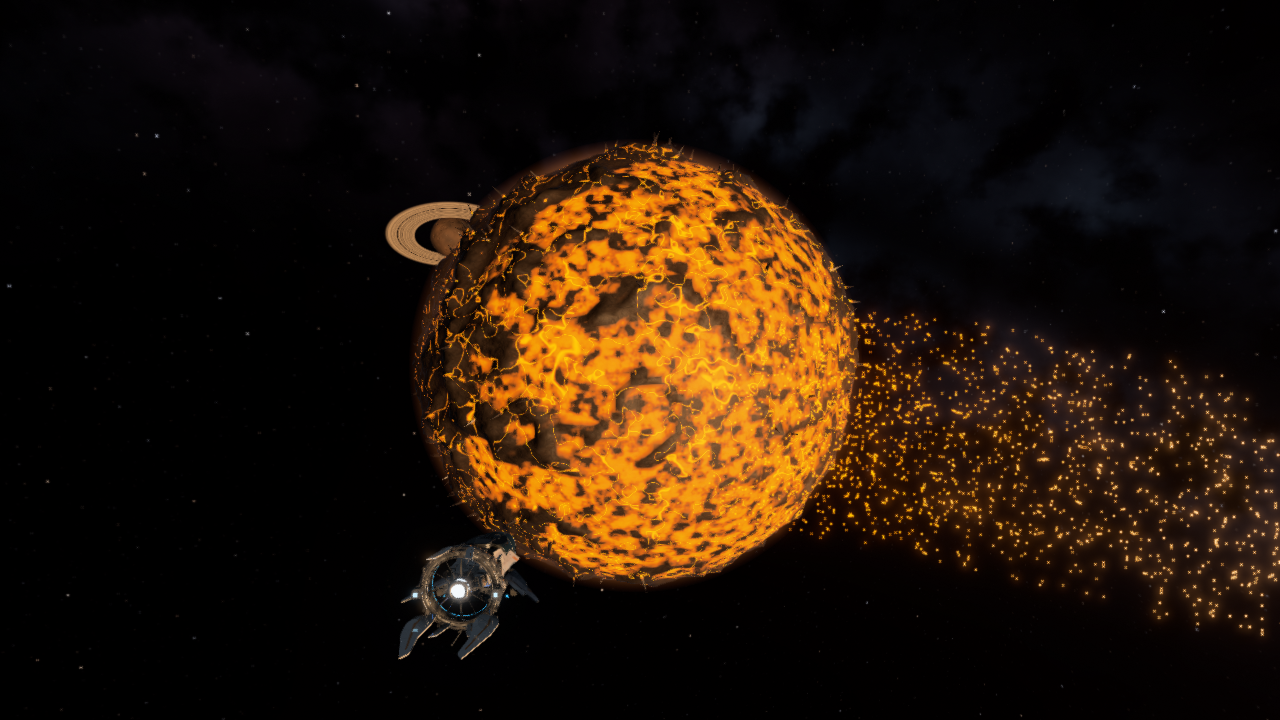
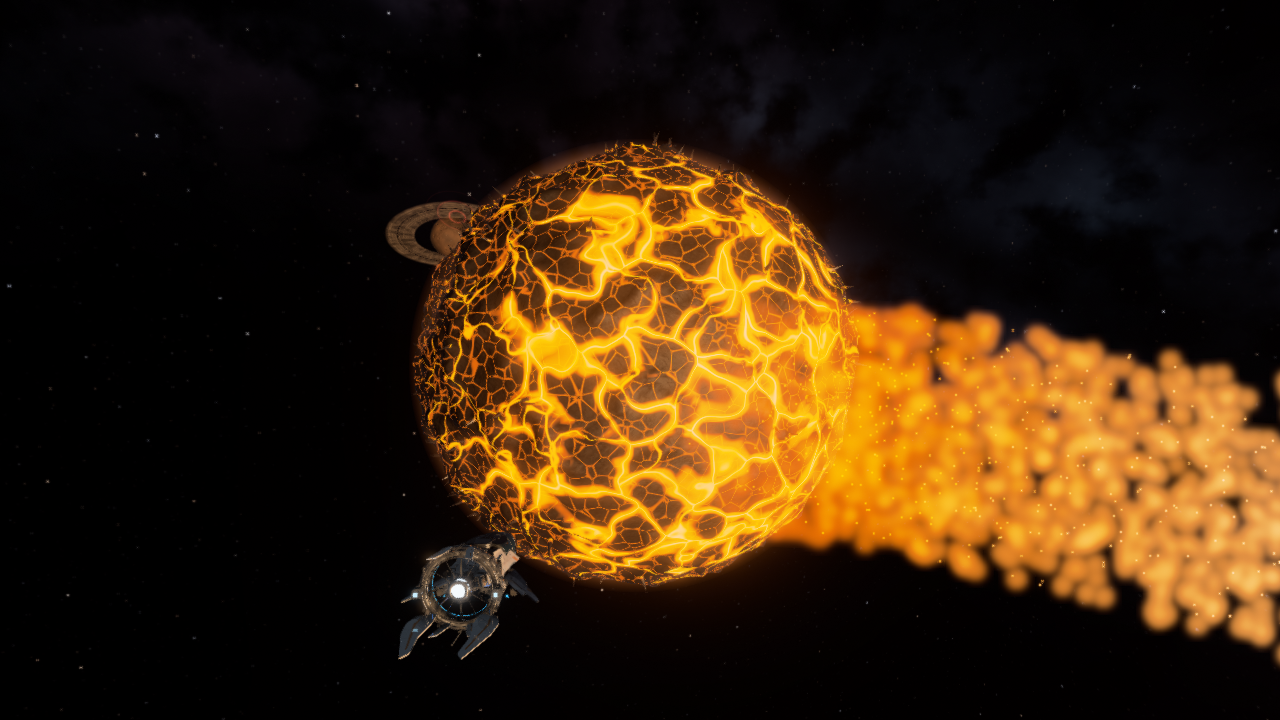
Actualizar el README, la explicacion y las capturas con el rediseno

Changed region(s): [[0.2812, 0.1833, 1.0, 0.9167]]

diff --git a/README.md b/README.md
@@ -4,25 +4,28 @@ Gráficas por Computadora · Proyecto 3 · Lázaro Díaz, 24713
 
 Un sistema solar explorable en nave, dibujado con un renderer por software
 propio en CPU. **Ocaso**, una supergigante roja, agoniza y late como un
-corazón. Durante quince minutos se puede volar entre sus cinco planetas;
-después su latido se acelera, colapsa en una supernova fallida y en su lugar
-queda **Gargantúa**, un agujero negro con su disco de acreción, que curva la
-luz de todo el cielo. Luego el ciclo vuelve a empezar.
+corazón, y se puede volar entre sus cinco planetas todo el tiempo que se
+quiera. Con **J** empieza el final: el latido se acelera, la estrella suelta
+una capa de gas, colapsa en una supernova fallida y en su lugar nace
+**Gargantúa**, un agujero negro con su disco de acreción que curva la luz de
+todo el cielo. Otra J la hace renacer.
 
-![Gargantua en la revision visual](media/24_el_ojo.png)
+![Gargantúa: el ojo se abre](media/24_el_ojo.png)
 
 | | |
 | --- | --- |
-| ![El sistema](media/22_agonia.png) | ![El chorro de brasas de Pira](media/14_chorro.png) |
-| ![Monolitos de Réquiem](media/10_monolito.png) | ![Bosque de hongos de Jardín de noche](media/11_hongos.png) |
-| ![Superficie de Jardín](media/23_jardin_biopunk.png) | ![Jardín durante Gargantúa](media/20_jardin_noche_eterna.png) |
+| ![Agonía: la estrella late y Pira se le deshace encima](media/22_agonia.png) | ![Estertor: la estrella suelta su capa de gas](media/25_estertor.png) |
+| ![Vigía y su ojo-tormenta](media/06_vigia.png) | ![Pira: corteza en placas y lava](media/02_pira.png) |
+| ![Agujas góticas de Réquiem](media/10_agujas.png) | ![Cementerio: naves en los anillos y la baliza](media/08_cementerio.png) |
+| ![Superficie de Jardín](media/23_jardin_biopunk.png) | ![Silencio: solo queda la bioluminiscencia](media/17_colapso.png) |
 
 ## Video
 
-El repositorio incluye [el recorrido continuo](media/recorrido-continuo.mp4): vuelo, acercamiento, una vuelta
-completa a Jardin y alejamiento, sin cambiar de escena. El piloto usa la misma
-fisica del vuelo manual. Se exporta a 24 fps con la simulacion acelerada x3;
-no es una medicion de FPS en tiempo real. El colapso se puede mostrar con J.
+El repositorio incluye [un recorrido continuo](media/recorrido-continuo.mp4)
+(vuelo, acercamiento, una vuelta completa a Jardín y alejamiento) grabado
+antes del rediseño de los planetas: hay que regrabarlo con `--recorrido`. El
+piloto usa la misma física del vuelo manual; se exporta a 24 fps con la
+simulación acelerada x3, así que no es una medición de FPS en tiempo real.
 
 Recorrido sugerido para grabarlo (F9 oculta el HUD):
 
@@ -31,8 +34,8 @@ Recorrido sugerido para grabarlo (F9 oculta el HUD):
 2. Volar a Jardín y bajar hasta la superficie: el modo local se activa solo.
 3. Con O (crucero), dar la vuelta al planeta sobre el bosque de hongos.
 4. Subir y alejarse con Shift.
-5. J para ir a 20 s antes del colapso: la arritmia, el destello, la onda
-   gravitacional y Gargantúa formando su disco.
+5. J: el estertor (la nebulosa y las llamaradas), el silencio, la onda
+   gravitacional y Gargantúa formando su disco, todo en medio minuto.
 
 ## Ejecutar
 
@@ -46,7 +49,7 @@ Opciones:
 
 ```sh
 cargo run --release -- --res 1920x1080        # resolución del render (por defecto 1280x720)
-cargo run --release -- --captura capturas     # las 25 vistas fijas como PNG, sin abrir ventana
+cargo run --release -- --captura capturas     # las 27 vistas fijas como PNG, sin abrir ventana
 cargo run --release -- --bench 30             # mide cada vista fija y da medianas por etapa
 cargo run --release -- --wire --lod           # empieza con wireframe y colores de LOD
 cargo test --release                          # pruebas de vuelo, raster, sombras y gas volumétrico
@@ -71,8 +74,8 @@ cargo test --release                          # pruebas de vuelo, raster, sombra
 | **Crucero**: rodea el planeta solo | O |
 | Trayectoria predicha (auto / siempre / nunca) | V |
 | Rebobinar el tiempo | R sostenido |
-| Saltar 30 s atrás / adelante en el ciclo | [ / ] |
-| Ir a 20 s antes del colapso | J |
+| Saltar 30 s atrás / adelante en el tiempo | [ / ] |
+| **Desatar el final** de la estrella / hacerla renacer | **J** |
 | Recorrer las vistas fijas (las mismas de `--captura`) | AvPág / RePág |
 | **Ajustes en vivo** (radio, órbita, semilla, shaders...) | T, flechas y Shift |
 | Wireframe / colores de LOD / LOD encendido | F3 / F4 / F5 |
@@ -127,13 +130,13 @@ Las vistas fijas se generan con `--captura` (nombres entre paréntesis).
 
 | Característica del menú | Cómo está hecho | Dónde verlo |
 | --- | --- | --- |
-| **5 planetas** que orbitan, rotan y se ven de cerca (50) | Pira (mundo de lava con acoplamiento de marea, la estrella se la come), Jardín (mundo vivo que respira, con venas que laten), Vigía (gigante gaseoso con una tormenta-ojo que sigue a la nave), Réquiem (necrópolis helada) y Cementerio (cráteres y zanjas de naves estrelladas, con anillos). Órbitas y giros son funciones del tiempo. | (02) a (08); volar a cualquiera |
-| **6 tipos de modelos** propios en la superficie (20) | Monolito con un ojo tallado, obelisco, hongo bioluminiscente, coral, espinas de obsidiana y nave náufraga, armados con código en `scene/props.rs`, cada uno en tres niveles de detalle. | (10) a (13), (20) |
+| **5 planetas** que orbitan, rotan y se ven de cerca (50) | Pira (corteza negra en placas con lava que late, acoplada por marea; la estrella se la come y le arranca un penacho de roca vaporizada), Jardín (mundo vivo que respira, con arterias y capilares que laten), Vigía (gigante gaseoso morado con un ojo-tormenta que gira, sigue a la nave y dilata la pupila con el latido), Réquiem (mundo helado con agujas góticas y grietas de luz fría) y Cementerio (anillos llenos de naves del éxodo y una baliza que sigue transmitiendo). Órbitas y giros son funciones del tiempo. | (02) a (08); volar a cualquiera |
+| **8 tipos de modelos** propios en la superficie (20) | Aguja gótica y aguja en ruinas (Réquiem), hongo y coral (Jardín), espinas de obsidiana (Pira), nave náufraga y baliza de celosía (Cementerio) y rocas, armados con código en `scene/props.rs`, cada uno en tres niveles de detalle. | (10) a (13), (26) |
 | **Distribución procedural** reproducible con ruido (10) | Una grilla por cara del cubo-esfera; cada celda propone un punto y lo acepta con una probabilidad de ruido fBm (grupos y claros) por las reglas del terreno (pendiente, hielo, lava, valles). Misma semilla, mismas ubicaciones. | F6 o T → semilla |
 | **Posición y orientación** sobre la superficie curva que gira (5) | Cada objeto vive en el espacio de su planeta, parado sobre la normal radial y hundido en el suelo; gira con el planeta y sube y baja con la respiración de Jardín. | Cualquier superficie |
-| **Shaders propios** distintos (24) | Estrella (convección y latido), lava de cuerpo negro de Pira, venas y poros de Jardín, bandas y ojo de Vigía, hielo de Réquiem, chatarra de Cementerio, anillos con sombras, objetos, Gargantúa. | Todas las vistas |
-| **Shader animado** (8) | El latido de la estrella (que se acelera en el ciclo), la lava que fluye, Jardín que respira, el ojo de Vigía, el gas del disco. | (02), (04), (06), (18) |
-| **Mapeo de normales** (8) | Mapas generados al arrancar (el glifo del ojo y las placas del casco) con mipmaps; tangentes por vértice y base TBN por pixel. | (10), (13) |
+| **Shaders propios** distintos (24) | Estrella (granulación de plasma, onda del latido, llamaradas), Pira (placas de Voronoi y lava de cuerpo negro), Jardín (arterias y capilares con antialiasing), Vigía (paleta propia, vórtice de Rodrigues, iris y relámpagos; del mapa del Hubble solo se toma el detalle de las nubes), Réquiem (hielo con grietas de luz fría), Cementerio, anillos de naves, agujas, baliza, nebulosa del estertor y Gargantúa. | Todas las vistas |
+| **Shader animado** (8) | La estrella late y cada latido cruza su superficie; la lava y las arterias laten con retraso; Jardín respira; el vórtice de Vigía gira y su pupila se dilata; la luz sube por las agujas; los anillos orbitan con luces que parpadean; la nebulosa se expande; el gas del disco fluye. | (02), (04), (06), (10), (18), (25) |
+| **Mapeo de normales** (8) | Las placas del casco de los naufragios (generadas al arrancar), la roca y el tejido orgánico en triplanar, con mipmaps; tangentes por vértice y base TBN por pixel. | (13), (05) |
 | **Deformación de la geometría** con ruido (10) | Las funciones de altura de cada planeta desplazan los vértices del cubo-esfera (cráteres, crestas, mares de lava, zanjas); Jardín además respira en el vertex shader. | Todas; `--wire` |
 | **Generación de geometría** propia antes de rasterizar (10) | Quadtree de chunks del cubo-esfera generados en paralelo con faldones, icosfera por subdivisión, modelos con `MeshBuilder`, cintas para líneas, recorte de Sutherland-Hodgman. | F3, F4 |
 | **Modo de control local** (8) | Cerca de un planeta (L) el vuelo se mide contra su superficie que gira: la mira se nivela con la vertical del planeta y se transporta con la curvatura, la nave sostiene sola su altura sobre el terreno y el crucero (O) rodea el planeta. | L, O |
@@ -142,14 +145,15 @@ Las vistas fijas se generan con `--captura` (nombres entre paréntesis).
 | **Colisión** con el planeta (4) | Contra la misma función de altura que se dibuja; la cámara tampoco entra al terreno. | Bajar a la superficie |
 | **Descarte** antes de rasterizar (7) | Esferas contra el frustum por objeto, chunks detrás del horizonte o fuera del frustum, objetos demasiado chicos, caras traseras. Contadores en el HUD (F2) y frustum congelado (F7). | F2, F7, (21) |
 | **Niveles de detalle** (8) | Terreno por distancia (quadtree) y objetos por tamaño en pantalla (3 niveles, se encogen al desaparecer). F4 colorea los niveles; F5 apaga el LOD y el HUD muestra cuántos triángulos más cuesta. | F4, F5 |
-| **Presentación** (10) | Dirección de arte deliberada (el ciclo de OCASO), HUD con nombres de los cuerpos, ayuda (F1) y controles explicados. | — |
+| **Presentación** (10) | Dirección de arte deliberada (el final de OCASO, a pedido con J), HUD con nombres de los cuerpos, ayuda (F1) y controles explicados. | — |
 
 Además, fuera del menú:
 
-- **Gargantúa** ([src/shaders/gargantua.rs](src/shaders/gargantua.rs)): la física de mi Proyecto 2 (geodésicas de Schwarzschild, Doppler y corrimiento gravitacional, disco delgado) usada de otra forma: se integra una tabla de mil rayos con RK4 (se rehace cuando cambia la distancia de la cámara al agujero) y cada pixel la consulta en vez de integrar su propio rayo. Se ven la sombra, el disco de atrás doblado por encima y por debajo, los anillos de fotones y las estrellas curvadas.
-- **El ciclo** ([src/scene/cycle.rs](src/scene/cycle.rs)): una función pura del tiempo, por eso se puede rebobinar.
+- **Gargantúa** ([src/shaders/gargantua.rs](src/shaders/gargantua.rs)): el gas volumétrico de mi Proyecto 2 (RK4 de las geodésicas de Schwarzschild, Doppler, corrimiento gravitacional) atravesado por cada rayo, más una tabla de mil rayos que resuelve la lente del cielo sin integrar. El gas se calcula cada dos pixeles y se interpola donde no hay bordes; en la sombra, la orilla del disco y el anillo de fotones se traza completo.
+- **El ciclo** ([src/scene/cycle.rs](src/scene/cycle.rs)): una función pura del tiempo y del instante en que se presionó J, por eso se puede rebobinar.
+- **Nebulosa del estertor** ([src/shaders/nebula.rs](src/shaders/nebula.rs)): una cáscara que se expande; cada rayo la corta en a lo más dos puntos, ahí se evalúan filamentos de ruido, y el borde brilla más porque se ve de canto.
 - **Atmósferas** con dispersión de Rayleigh y Mie, perspectiva aérea por vértice y una tabla del cielo cuando la cámara está adentro.
-- **Partículas** aditivas con profundidad: el chorro de brasas que Pira pierde, esporas que brillan de noche, el fuego de los motores.
+- **Partículas** aditivas con profundidad: el penacho de roca que Pira pierde, los arcos de plasma de la estrella, las ondas de la baliza, esporas que brillan de noche y el fuego de los motores.
 - **Sonido sintetizado**: el latido sincronizado con el que se ve, motor, viento y un tono por planeta.
 - **Bloom** y tonemap HDR que conserva el tono.
 
@@ -169,11 +173,12 @@ dibujos (malla + matriz + material)
  -> vértices: deformación, objeto -> mundo relativo a la cámara -> clip,
     atmósfera por vértice                                           (paralelo)
  -> triángulos: descarte, recorte, setup y reparto en tiles        (paralelo)
- -> mapa de sombras ortográfico 1024x1024                         (CPU)
+ -> mapa de sombras ortográfico 1024x1024, por franjas            (paralelo)
  -> raster por tiles de 64x64 al visibility buffer                (paralelo)
  -> barrera: se completa toda la profundidad antes de leer vecinos
  -> shading diferido: PBR, PCF, oclusión ambiental de pantalla      (paralelo)
- -> Gargantúa volumétrico, anillos, atmósferas y partículas         (paralelo)
+ -> gas de Gargantúa cada 2 pixeles                                 (paralelo)
+ -> Gargantúa, nebulosa, anillos, atmósferas y partículas           (paralelo)
  -> reflejos de pantalla en superficies mojadas cercanas           (paralelo)
  -> bloom y tonemap HDR -> RGBA8 -> textura de raylib               (paralelo)
 ```
@@ -182,9 +187,13 @@ dibujos (malla + matriz + material)
   mundo se guarda en `f64` y se dibuja relativo a la cámara.
 - Un pool de hilos propio con reparto dinámico (el i5-12500H tiene núcleos
   de dos tamaños).
-- Esta revision prioriza detalle visual. El costo depende mucho de la vista:
-  medir con `--bench 10`. El paquete incluye `rendimiento.txt` con mediciones
-  del i5-12500H a 1280x720. Los primeros frames de carga no se miden.
+- El costo depende mucho de la vista (`--bench 10`). En un i5-12500H a
+  1280x720, casi todas las vistas tardan entre 25 y 75 ms por frame; el
+  bosque de Jardín de cerca y Gargantúa, entre 120 y 150 ms; la vista de
+  cine del ojo (24), unos 300 ms.
+- Todos los hilos redondean a cero los floats desnormalizados (FTZ/DAZ): un
+  `exp` muy negativo deja valores tan chicos que cada operación con ellos
+  cuesta cientos de ciclos.
 - FXAA en CPU suaviza las diagonales despues del tonemap; F3/F4 lo omiten
   para mantener legibles las aristas y los colores de depuracion.
 
@@ -238,9 +247,7 @@ desde sRGB; normal, rugosidad y AO permanecen lineales.
 
 ## Integrantes y contribuciones
 
-Trabajo individual: Lázaro Díaz (24713). Se utilizo asistencia de IA para
-modelado, implementacion, mejoras visuales y depuracion. El estudiante debe
-revisar y poder explicar el codigo y las decisiones de la entrega.
+Trabajo individual: Lázaro Díaz (24713).
 
 ## Dependencias, recursos y asistencia
 

diff --git a/EXPLICACION.md b/EXPLICACION.md
@@ -1,7 +1,42 @@
-# Cambios de la revision visual
+# Cambios de la segunda revisión
 
-El resto de este documento describe la arquitectura original. Esta revision
-agrega los siguientes puntos para explicar en la demostracion:
+- **El final a pedido** (`scene/cycle.rs`): ya no hay un ciclo fijo de 15
+  minutos. La estrella agoniza hasta que se presiona J; desde ahí, 20 s de
+  estertor, 6 s de colapso, 4 s de silencio y el ojo se abre. Todo sigue
+  siendo función pura del tiempo y de los instantes de J (`Timeline`), así
+  que rebobinar funciona igual. Otra J hace renacer a la estrella con un
+  fundido a blanco.
+- **Estrella** (`shaders/sun.rs`): granulación en tres escalas (gotas de
+  plasma separadas por canales fríos, nunca negros), limbo oscuro y rojo, la
+  onda de cada latido que cruza la superficie y llamaradas en el estertor. El
+  color es de cuerpo negro entre 1700 y 2700 K: a 3400 K el sRGB lo vería
+  color durazno.
+- **Arcos de plasma** (`scene/effects.rs`): cuerdas de cinco hebras torcidas,
+  amarillas en los pies y rojas arriba, con nudos que bajan; en el estertor
+  crecen y uno de cada tres se desprende.
+- **Nebulosa** (`shaders/nebula.rs`): la capa de gas del estertor. Ver la
+  sección 10.
+- **Pira**: corteza en placas de Voronoi con lava entre ellas, más del lado
+  que mira a la estrella; las grietas laten con retraso. El chorro es un
+  penacho continuo (manchas grandes y tenues) con brasas.
+- **Vigía**: paleta morada propia sobre el detalle del Hubble, vórtice que
+  gira, iris con fibras, pupila que se dilata con el latido y relámpagos.
+- **Réquiem**: agujas góticas en vez de monolitos (pisos octogonales,
+  cornisas con escarcha, ventanas de luz fría que sube con cada latido) y un
+  mundo de hielo bajo una luz desaturada (la estrella queda lejos).
+- **Cementerio**: los anillos están llenos de naves (siluetas por distancia
+  con signo en celdas de Voronoi polares, con luces de navegación que
+  parpadean) y una baliza de celosía emite una onda con cada destello.
+- **Jardín**: vuelven las arterias y capilares con antialiasing que laten.
+- **Rendimiento**: mapa de sombras en paralelo por franjas sin caras de
+  espaldas a la luz, mapas de roca empaquetados en un texel de 8 bytes, gas
+  de Gargantúa cada dos pixeles con tabla radial, y FTZ/DAZ en todos los
+  hilos. Las vistas que no son de Gargantúa salieron idénticas bit a bit.
+
+# Cambios de la primera revisión visual
+
+El resto de este documento describe la arquitectura original. Esa revisión
+agregó los siguientes puntos para explicar en la demostración:
 
 - **Frenado** (`scene/ship.rs`): antes la aceleracion maxima dependia solo de la
   altitud. El piloto podia llegar con mucha velocidad y quedarse sin fuerza
@@ -144,38 +179,43 @@ cara a la estrella.
 ### Las identidades
 | Planeta | Rasgo central |
 | --- | --- |
-| Pira | Lava de cuerpo negro (la temperatura da el color), grietas brillantes, acoplamiento de marea, y un chorro de brasas que cae a la estrella. |
+| Pira | Corteza negra en placas con lava de cuerpo negro entre ellas, grietas que laten, acoplamiento de marea, y un penacho de roca vaporizada que cae a la estrella. |
 | Jardín | Arterias que laten con la estrella, poros, capilares; la superficie respira (desplazamiento en el vertex shader). |
-| Vigía | Gigante gaseoso con bandas deformadas por ruido y una tormenta en forma de ojo cuya pupila sigue a la nave. |
-| Réquiem | Mares congelados, nieve en lo plano, monolitos con un ojo tallado que laten. |
-| Cementerio | Cráteres y zanjas de naves estrelladas, chatarra que destella, anillos que le hacen sombra. |
+| Vigía | Gigante gaseoso morado con un vórtice que gira y una tormenta en forma de ojo que sigue a la nave; la pupila late. |
+| Réquiem | Hielo y escarcha bajo una luz fría, grietas que respiran luz y agujas góticas cuya luz sube con cada latido. |
+| Cementerio | Cráteres y zanjas de naves estrelladas, anillos llenos de naves del éxodo y una baliza que sigue transmitiendo. |
 
 ## 4. Shaders ([shaders/](src/shaders))
 
 Cada material es una función que recibe los atributos del pixel y devuelve
 su color HDR. Algunos ejemplos de técnica:
-- **Estrella** ([sun.rs](src/shaders/sun.rs)): celdas de convección con ruido
-  deformado por otro ruido (*domain warping*), oscurecimiento del limbo y el
-  latido (dos golpes por periodo).
-- **Lava** ([pira.rs](src/shaders/pira.rs)): el color sale de la ley de Planck
-  (temperatura → color de cuerpo negro); el ruido mueve la temperatura en el
-  tiempo y forma placas de costra.
+- **Estrella** ([sun.rs](src/shaders/sun.rs)): granulación de plasma con ruido
+  deformado por otro ruido (*domain warping*), oscurecimiento del limbo, la
+  onda del latido que cruza la superficie y las llamaradas.
+- **Lava** ([pira.rs](src/shaders/pira.rs)): placas de Voronoi; el color de la
+  lava sale de la ley de Planck (temperatura → color de cuerpo negro). Las
+  grietas más delgadas que un pixel se ensanchan y bajan su brillo en la
+  misma proporción.
 - **Jardín** ([jardin.rs](src/shaders/jardin.rs)): las arterias son las
   líneas donde un ruido cruza un valor; cuando un pixel cubre más que la
   línea, se dibuja su brillo promedio en vez de parpadear.
 - **Vigía** ([vigia.rs](src/shaders/vigia.rs)): coordenadas giradas con la
-  fórmula de Rodrigues para el remolino del ojo.
+  fórmula de Rodrigues para el vórtice; el iris en coordenadas polares
+  alrededor del eje del ojo.
 - **Anillos** ([rings.rs](src/shaders/rings.rs)): analíticos (intersección
   rayo-plano), con la sombra del planeta sobre ellos y la de ellos sobre el
-  planeta.
+  planeta. Las naves son celdas de Voronoi en coordenadas polares (un número
+  entero por vuelta, para que no haya costura) con una silueta de nave por
+  distancia con signo; giran en bloque (con la velocidad de Kepler de cada
+  radio, en un minuto se estirarían en rayas).
 
 **Animados**: todos los que usan `u.time` o el latido: estrella, lava, venas,
-ojo, gas del disco, glifos de los monolitos.
+vórtice y pupila de Vigía, agujas, anillos, nebulosa y gas del disco.
 
 ## 5. Mapeo de normales ([shaders/textures.rs](src/shaders/textures.rs))
 
 - Los mapas se generan al arrancar a partir de un **mapa de alturas** dibujado
-  con funciones de distancia (el ojo tallado, las placas del casco). La
+  con funciones de distancia (las placas del casco). La
   normal de cada texel sale de la pendiente:
   `n = normalize(-dh/du, -dh/dv, 1)`.
 - Cada vértice lleva una **tangente** (hacia donde crece `u`) y un signo.
@@ -188,7 +228,7 @@ ojo, gas del disco, glifos de los monolitos.
 
 ## 6. Objetos de la superficie ([scene/props.rs](src/scene/props.rs))
 
-- **Modelos**: seis tipos armados con código con `MeshBuilder`
+- **Modelos**: ocho tipos armados con código con `MeshBuilder`
   ([scene/builder.rs](src/scene/builder.rs)): cajas, conos truncados,
   elipsoides y tubos con transporte paralelo. Cada uno en tres niveles de
   detalle.
@@ -196,7 +236,7 @@ ojo, gas del disco, glifos de los monolitos.
   cada celda propone un candidato en un punto pseudoaleatorio (un hash de la
   semilla, la cara y la celda). Se acepta con una probabilidad que sale de
   **ruido fBm** (grupos y claros) por las reglas del terreno (no hay hongos en
-  la lava ni monolitos en el hielo). La misma semilla da las mismas
+  la lava ni agujas en el hielo). La misma semilla da las mismas
   posiciones; F6 la cambia.
 - **Posición y orientación**: cada objeto se guarda en el espacio de su
   planeta, con +Y sobre la normal radial y un giro al azar alrededor de ella;
@@ -208,7 +248,7 @@ ojo, gas del disco, glifos de los monolitos.
   suelo en vez de desaparecer de golpe.
 - **Sombra del planeta por pixel**: el rayo hacia la estrella pasa a una
   distancia `d` del centro; si `d` es menor que el radio, el planeta lo tapa.
-  La punta de un monolito sigue iluminada cuando su base ya está de noche.
+  La punta de una aguja sigue iluminada cuando su base ya está de noche.
 
 ## 7. Navegación ([scene/ship.rs](src/scene/ship.rs))
 
@@ -260,11 +300,20 @@ de la atmósfera.
 ## 10. El ciclo y Gargantúa
 
 ### El ciclo ([scene/cycle.rs](src/scene/cycle.rs))
-Quince minutos: agonía, arritmia (el latido acelera de 1.9 a 0.7 s), colapso
-en caída libre (`R ∝ (1 - u²)^(2/3)`), destello, ignición del disco, Gargantúa
-y renacer. Todo es función pura del tiempo. Como el latido acelera, su fase
-no puede ser `t / periodo` (saltaría al cambiar el periodo): es la integral
-cerrada de la frecuencia.
+La agonía dura lo que el piloto quiera; con J: estertor (el latido acelera de
+1.9 a 0.7 s, la estrella se hincha y suelta su capa de gas), colapso en caída
+libre (`R ∝ (1 - u²)^(2/3)`) mientras la luz se drena, silencio, el ojo se
+abre (onda gravitacional y destello) y el disco se enciende. Todo es función
+pura del tiempo y de los instantes en que se presionó J. Como el latido
+acelera, su fase no puede ser `t / periodo` (saltaría al cambiar el
+periodo): es la integral cerrada de la frecuencia.
+
+### La nebulosa ([shaders/nebula.rs](src/shaders/nebula.rs))
+No se marcha un volumen: cada rayo corta la esfera de la capa en a lo más
+dos puntos y ahí se evalúan los filamentos (donde un ruido cruza por cero,
+deformado por otro ruido) y unos grumos que dejan regiones vacías. La luz es
+la del tramo que el rayo pasa dentro de la cáscara: su grosor entre el
+coseno con la normal, así el borde brilla más, como en las nebulosas reales.
 
 ### Gargantúa (`shaders/gargantua.rs`, `gargantua_p2/`)
 
@@ -285,6 +334,12 @@ cerrada de la frecuencia.
 - Gas 3D de 384×192×9, dos campos que se relevan continuamente, rotación
   de Kepler y cizalla con altura. No se sustituye por anillos de seno.
 - La tabla angular sigue acelerando el cielo que no atraviesa gas.
+- El gas se traza cada dos pixeles; un pixel entre cuatro muestras
+  parecidas las interpola, y si no se parecen (la sombra, la orilla del
+  disco, el anillo de fotones) traza su propio rayo. Un rayo que sale de la
+  envoltura ya no vuelve a cruzar gas y se corta. Lo que depende solo del
+  radio (temperatura, Kepler, opacidad) y el color de cuerpo negro van en
+  tablas; `gargantua_p2/disk.rs::prepare` sigue intacto como referencia.
   Superficies delanteras conservan su visibilidad; la sombra del agujero
   aporta profundidad para tapar anillos y atmósferas posteriores.
 
@@ -293,8 +348,9 @@ cerrada de la frecuencia.
 Cook–Torrance con distribución GGX, geometría Smith y Fresnel Schlick.
 Rugosidad y metalicidad provienen del Blender en la nave; fotografías y
 mapas triplanares aportan detalle a los planetas. Un mapa de sombras
-ortográfico 1024² rasterizado en CPU resuelve sombras cercanas con PCF
-de nueve muestras. El raster completo termina antes del shading para
+ortográfico 1024² resuelve sombras cercanas con PCF de nueve muestras: se
+rasteriza en paralelo por franjas de 16 filas y sin las caras de espaldas a
+la luz (en una superficie cerrada nunca son lo más cercano a ella). El raster completo termina antes del shading para
 poder leer vecinos del z-buffer en la oclusión ambiental. Un segundo
 buffer evita leer y escribir simultáneamente los reflejos de pantalla.
 Estos reflejos solo alcanzan superficies cercanas visibles en pantalla.
@@ -317,6 +373,6 @@ Las bioluminiscencias emiten y aportan luces puntuales de alcance finito.
 | El radio de un planeta | Se crea un terreno nuevo con ese radio (los chunks se regeneran alrededor de la cámara), se recalcula la tabla de su atmósfera y se vuelven a repartir sus objetos. La gravedad en la superficie se conserva: `μ = g r²`. |
 | Su periodo orbital | Cambia la velocidad en la órbita sin que salte: la fase se corrige para que en este instante siga en el mismo ángulo. Si estaba acoplado por marea (Pira), su giro cambia con él. |
 | Su periodo de giro | Igual, con la fase del giro. |
-| La intensidad de su shader | Escala su efecto propio (la lava, la bioluminiscencia, el ojo, el hielo y los glifos, la chatarra). |
+| La intensidad de su shader | Escala su efecto propio (la lava, la bioluminiscencia, el ojo, el hielo y las agujas, la baliza y las luces de las naves). |
 | La semilla | Otras posiciones para todos los objetos, siempre las mismas para esa semilla. |
 | El factor de LOD | Más o menos chunks (se ve en el contador de triángulos). |
